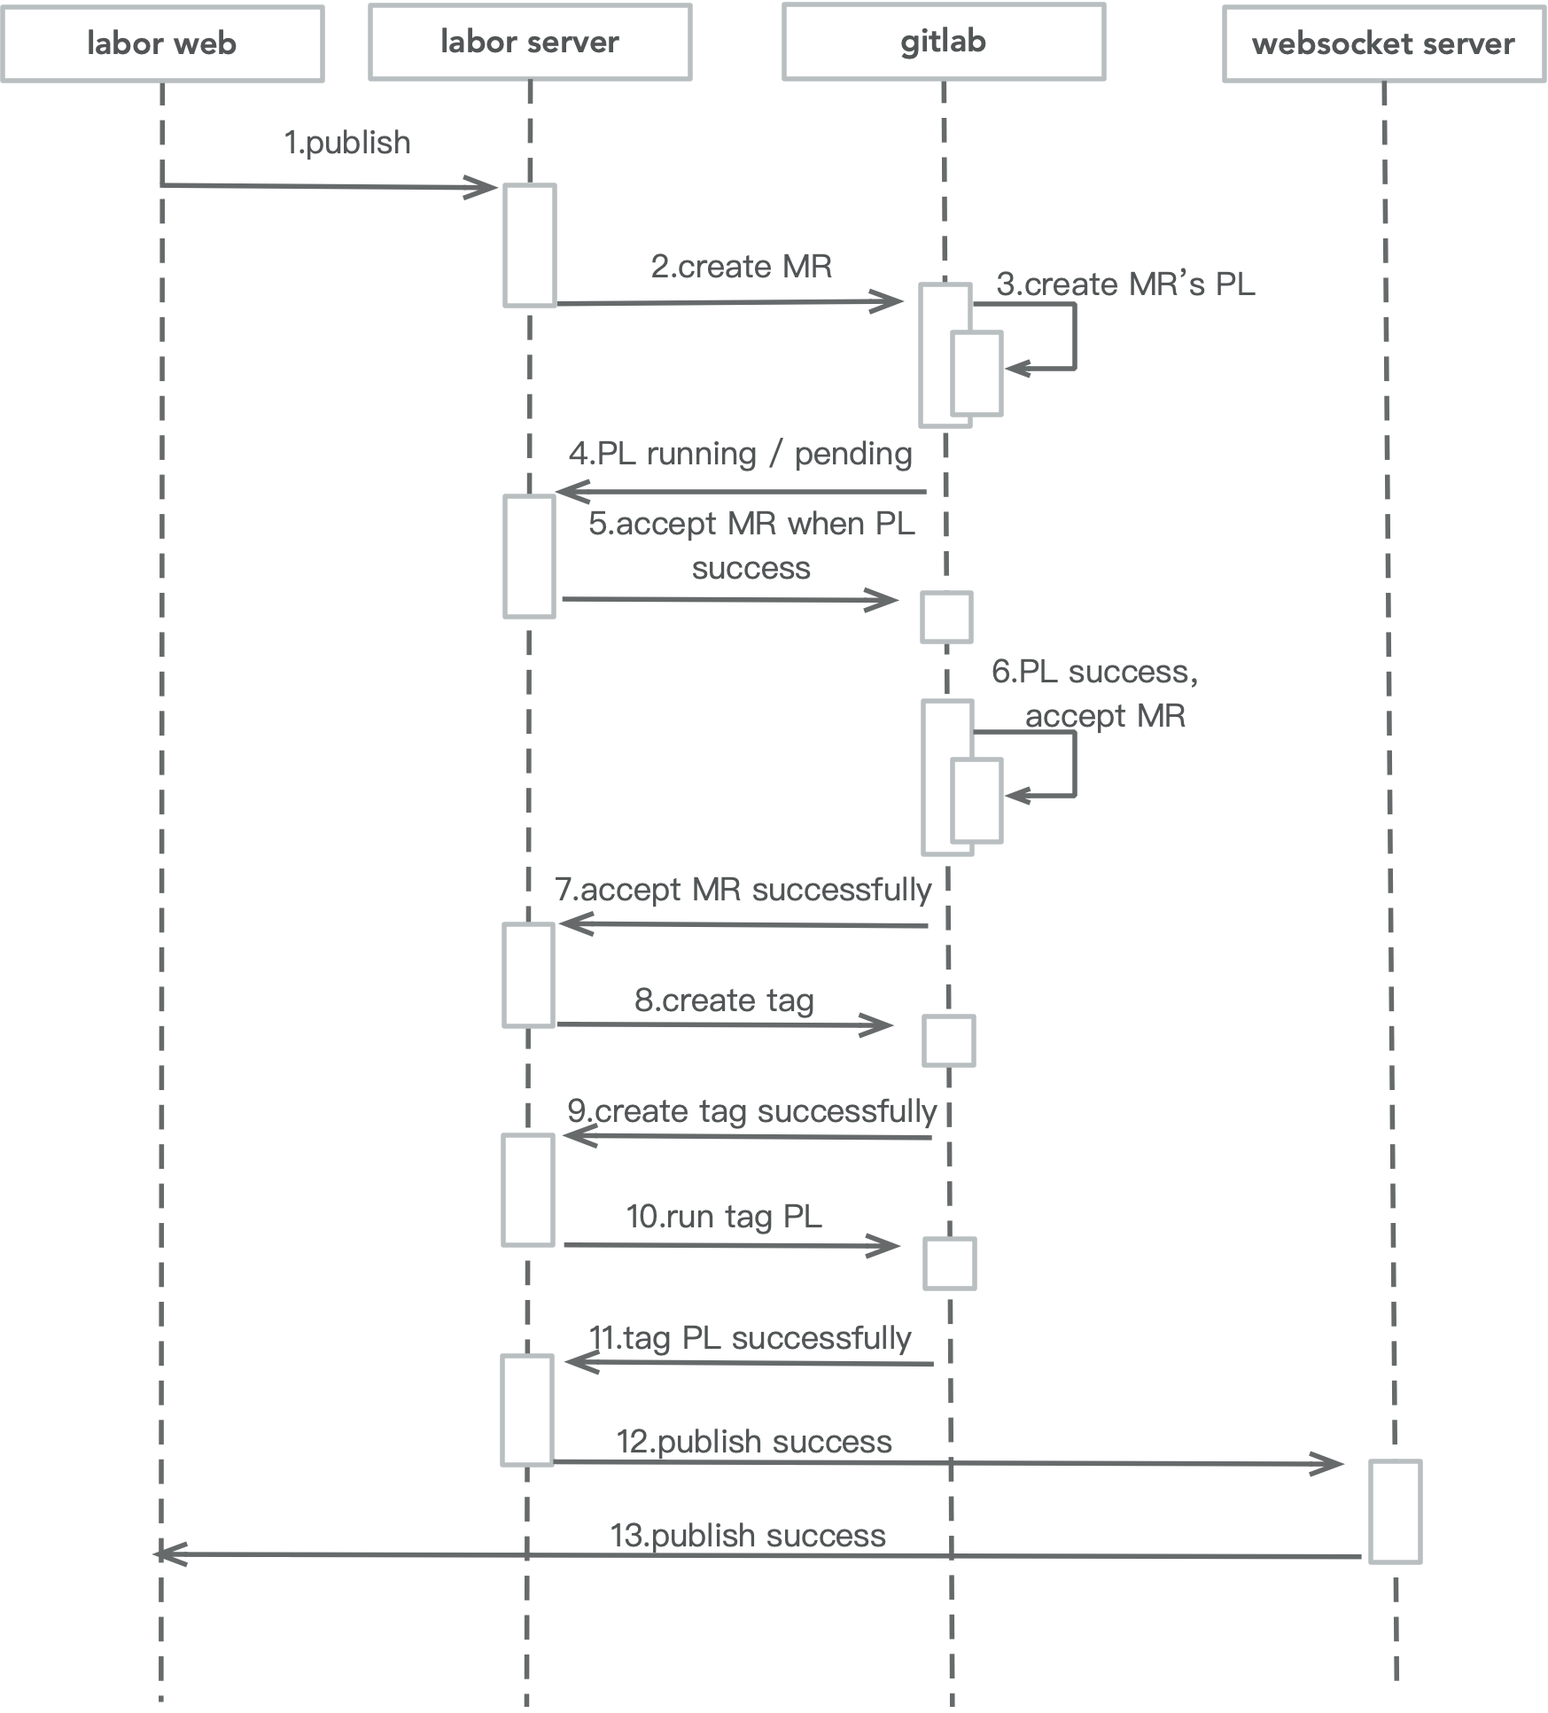
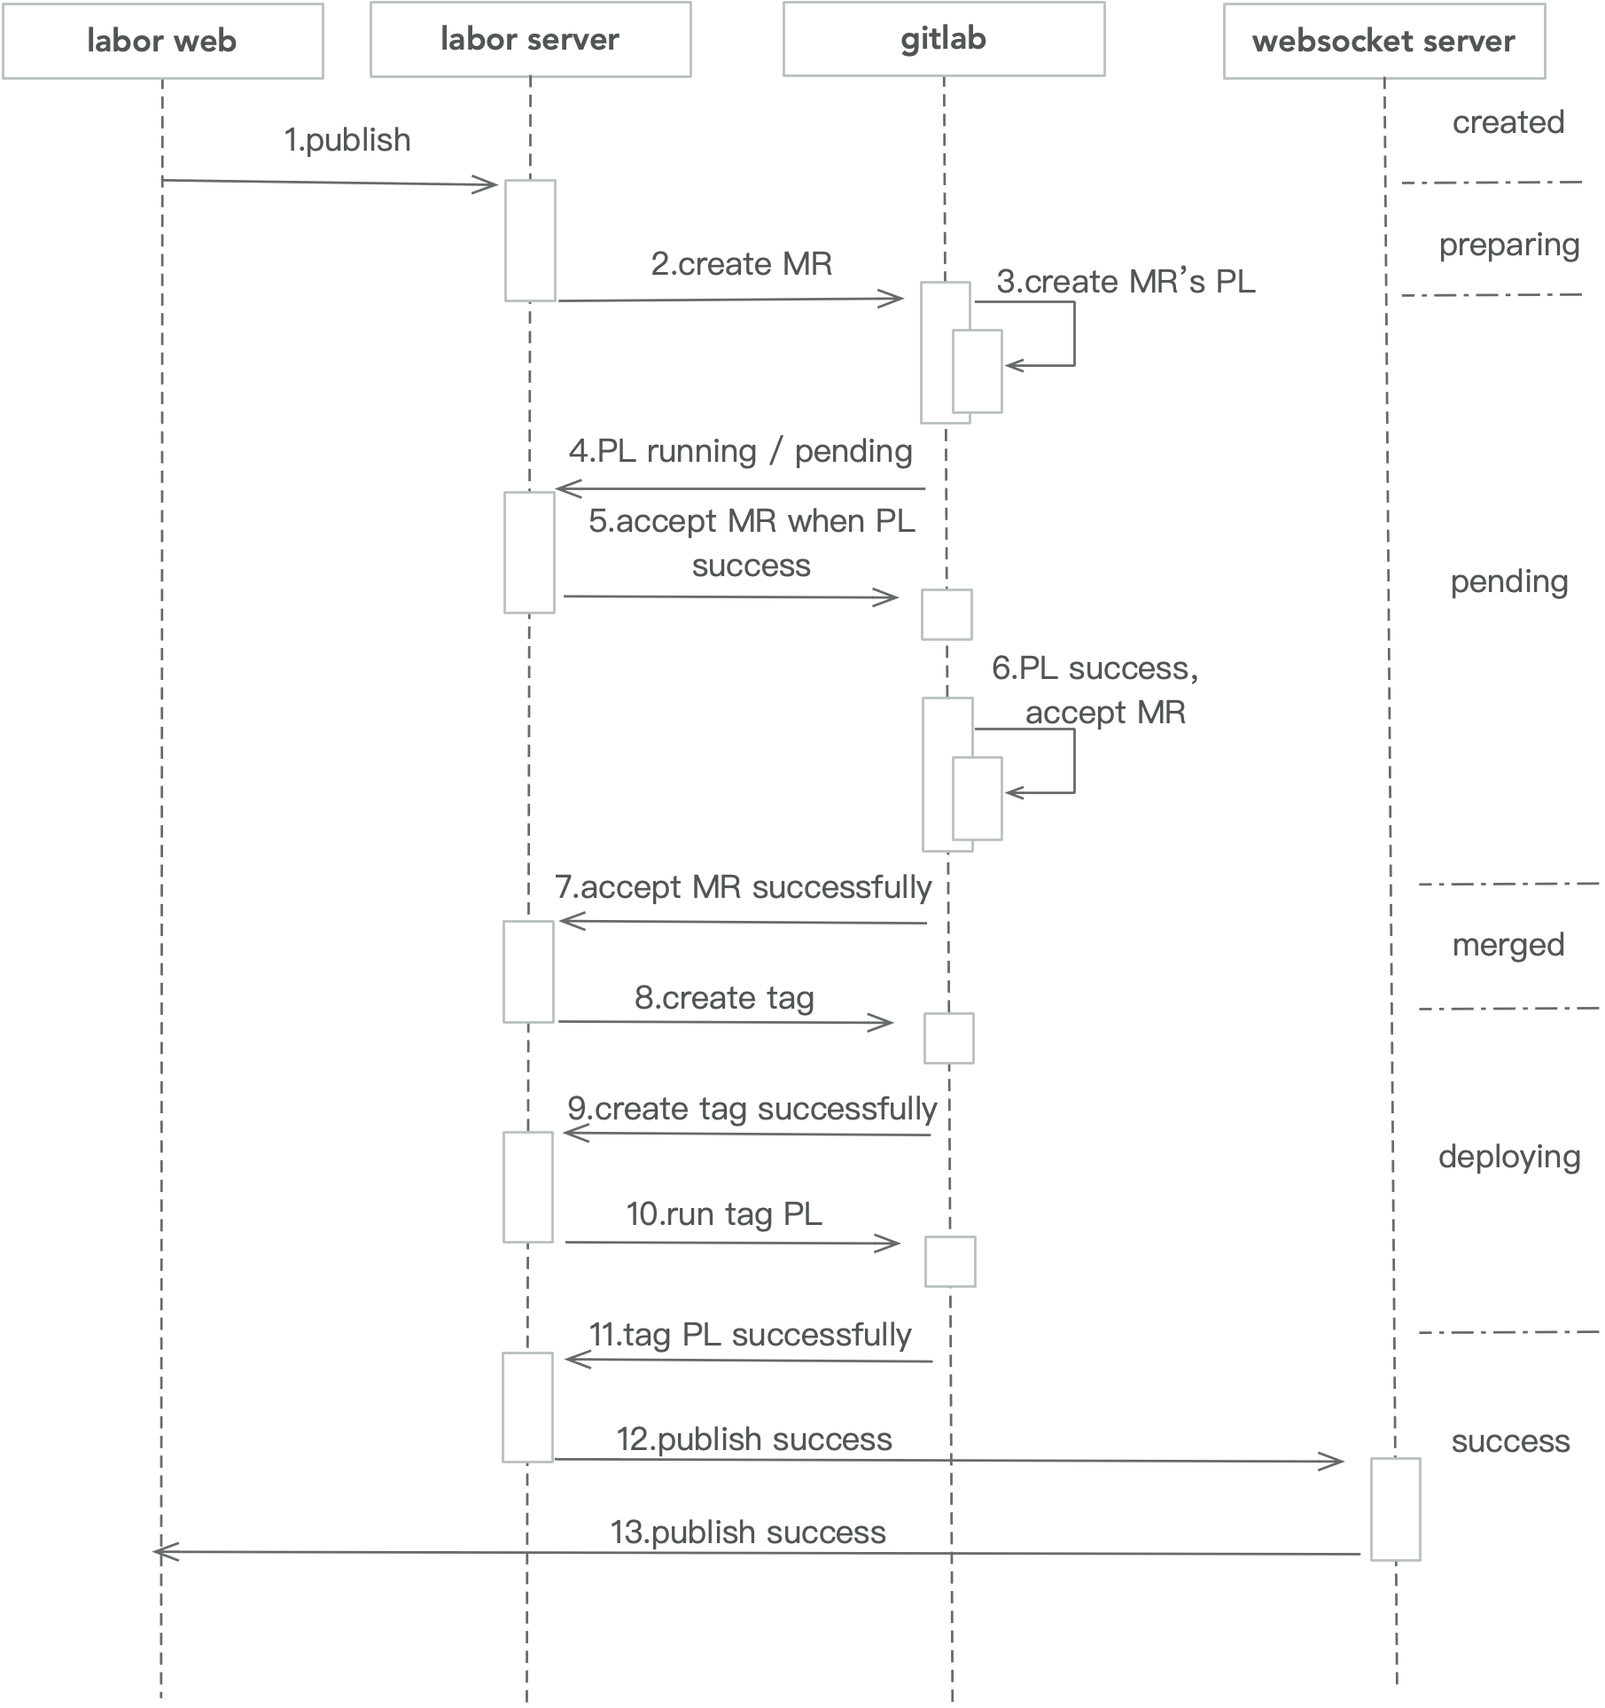
updte

diff --git a/source/_posts/CocoaPods，GitLabCI与组件自动化发布.md b/source/_posts/CocoaPods，GitLabCI与组件自动化发布.md
@@ -1,0 +1,327 @@
+---
+title: CocoaPods，GitLab CI 与组件自动化发布
+date: 2019-01-27 15:47:21
+tags: [CocoaPods,GitLab CI,组件自动化发布]
+categories: iOS
+author: 青木
+---
+
+
+
+在实施业务组件化后，大部分没有组件化工具链支撑的团队一般都会遇到组件发布效率问题，如果遇到多个特性一起上线时，发布的组件数量可能达到十几二十个，手动发布这些组件的话，费时费力，非常影响开发体验。同样的，这个问题也一直困扰着我们团队，虽然后期我们通过 CI 简化了单个组件的发布，组件负责人只需要根据 Podfile 中的版本提交相应 tag 即可触发发布动作，但是 CI 并没有解决多个关联组件发布的前后顺序问题————如果下层组件还未发布就发布上层组件，此组件的 CI 很可能会因为缺少下层组件的某些接口而执行失败。
+
+<!--more-->
+
+## 背景
+
+我们团队目前是基于 GitFlow 工作流进行日常项目的开发， 项目在进入预发阶段时，关联的组件都需要拉取 release 分支，当某次发版的所有关联项目都预发测试完毕时，此次发版的负责人（通常是其中某个项目的负责人）会通知团队内部成员对组件进行封板，然后组件的负责人会去合并 release 分支到 master & develop ，并且发布一个新版本，等所有组件都发布完成后，发版负责人再去更新主工程 Podfile。
+
+整个发版过程，组件负责人除了需要重复若干次以下操作，还需要知悉是否有下层组件还未发布：
+
+```
+>>>> 合并 release 分支 ，gitflow finish release
+    >>>> 查看组件应升级版本,更新 podspec 版本并 commit
+        >>>> 打 tag 并 push 
+            >>>> CI 执行完毕，组件发布完成，可能需要通知上层组件的负责人
+```
+
+可以看到如果需要发布多个组件，其过程还是非常繁琐的。
+
+我们再单独说下发布顺序的问题。假设当前有需要发布的组件 A、B、C、D ，其依赖关系如下：
+
+<img src="https://github.com/tripleCC/tripleCC.github.io/raw/master/images/labor-组件依赖.png" width="400">
+
+在遵守 CocoaPods 发布规则的前提下，发布先后顺序应依次为 A、B-C、D ，其中 B 和 C 组件可同时发布，D 则需要等 B、C 都发布完成后才可以发布，也就是说只有当前组件的依赖没有包含未发布组件，此组件才可发布。
+
+我们以前的发布情况常常是这样的：下层组件 A 由于 lint 不通过，导致依赖 A 的 B、C 都 lint 失败，由于我们没有限制开发者对私有源仓库的 push 权限，B、C 组件的负责人这时候可能就会选择向私有源仓库强推 podspec ，导致出现 lint 失败的连锁反应，越来越多的组件本身代码没问题，却因为下层组件而 lint 失败，只能选择强推 podspec 。
+
+遇到这种情况，除了强调发布规则，从根本上还是要减少发版操作给组件负责人带来的工作量。
+
+labor 就是为了能在一定程度上解决以上问题而创建的。在 labor 上执行发版操作时，组件负责人只需要关注 lint 的错误信息即可，剩余发布操作，包括上下层组件的发布顺序都由 labor 进行管理。
+
+## 效果
+
+还是以上诉的 A、B、C、D 组件为例，在 labor 上添加发布并分析依赖后，可以看到组件发布页：
+
+![1](/images/Snip20190214_24.png)
+
+在发布页中，使用者可以查看依赖发布的组件，也可以修改发布组件的版本，labor 会在组件发布时同步到仓库的 podspec 文件中。
+
+
+执行自动发布后，labor 会和 GitLab 进行一系列交互。以组件 A 为例，labor 会先创建目标分支的 MR ：
+
+![1](/images/Snip20190214_17.png)
+
+然后触发对应 release 分支的 pipeline ：
+
+![1](/images/Snip20190214_18.png)
+
+这里我们省去的 code review 这一步骤，如果需要的话，可以在 web 上设置入口，组件负责人设置为 review 完成后，才触发 pipeline。
+
+如果 pipeline 执行成功，那么 GitLab 会自动合并 MR，如果冲突的话，需要负责人在此 MR 下解决 ：
+
+![1](/images/Snip20190214_20.png)
+
+MR 合并成功后，组件会更新状态为发布中 ：
+
+![1](/images/Snip20190214_23.png)
+
+然后 labor 会给组件打 tag ，并且触发 tag 的 pipeline ：
+
+![1](/images/Snip20190214_22.png)
+
+在 tag 的 pipeline 执行成功后，我们就视 A 组件发布成功了，接着 labor 会同时触发 B、C MR 对应分支的 pipeline ，后续处理与组件 A 一致。受益于 GitLab 分布式的 runner ，我们可以通过 CI 同时发布多个组件。
+
+当所有组件发布完成后，labor 会根据使用者输入的组件版本，更新发版工程的 Podfile：
+
+![1](/images/Snip20190216_25.png)
+
+以上就是 labor 的主要工作步骤，可以看到，使用 labor 发版后，组件负责人只需要确保 MR 能顺利合并即可，不需要等待下层组件负责人发布完成的通知，也省去了繁琐的发布操作。
+
+## 概览
+
+labor 由如下几个服务构成 ：
+
+![labor-总览](/images/labor-总览.png)
+
+其中 web 端主要专注于发版交互与组件发布数据的展示，后端负责发版信息采集、组件发布任务调度以及和 GitLab 进行通信，websocket server 主要负责实时更新 web 中组件的发布状态。server 中很多操作都是与 GitLab 进行交互，耗时较多，所以 server 中的大部分 service 都是交给 sidekiq（后台任务处理系统）执行的。
+
+接下来我会根据自身实践经历，说下主要流程的实现方式。
+
+## 发布类型
+
+依据发布性质，labor 把发布分为两种：
+
+- 主发布 (main deploy)
+- 子发布 (pod deploy)
+
+这里主发布的主体是发版工程，子发布的主体是组件。其中主发布主要负责发版工程信息的获取和更新，比如依赖的分析、最后目标分支 Podfile 的更新等。 主发布经过分析后，会创建若干子发布，子发布则负责组件发布的所有流程，包括组件 MR 的创建，组件 tag 的创建，发布 CI 的触发等。
+
+主发布和子发布涉及的所有状态如下：
+
+```js
+created:      '待分析',
+analyzing:    '分析中',
+preparing:    '准备中',
+pending:      '等待中',
+waiting:      '待发布',
+skipped:      '已忽略',
+merged:       '已合并',
+deploying:    '发布中',
+success:      '发布成功',
+failed:       '发布失败',
+canceled:     '已取消',
+```
+
+我们使用 [state_machines-activerecord](https://github.com/state-machines/state_machines-activerecord) 以状态机的形式对发布状态进行管理，状态发生变更之后，都会通过 websocket 同步到 web 端。
+
+## 分析依赖
+
+分析目标工程的组件依赖是发版的第一步，对应主发布的 analyzing 状态，下面是 labor 分析步骤的序列图：
+
+![labor-分析依赖](/images/labor-分析依赖.png)
+
+首先，web 向 server 端发起分析依赖请求，server 接收到请求后，使用 [gitlab](https://github.com/NARKOZ/gitlab.git)  向 GitLab 请求 Podfile 文件内容。由于 Podfile 可能在仓库的根目录或者 Example 文件夹下，这里我们使用了 5 层深度的递归查询来获取文件路径。
+
+获取到 Podfile 路径后，再根据文件内容创建 Podfile 对象：
+
+```ruby
+# Labor::RemoteFile::Base
+def file_contents
+  @file_contents ||= gitlab.file_contents(@project_id, @path, @ref)
+rescue Gitlab::Error::NotFound => error
+  # self.class.name.demodulize
+  # [2..-1]
+  raise Labor::Error::NotFound.new("Can't find #{self.class.name.split('::').drop(2).join('')} with error #{error.message}")
+end
+
+# Labor::RemoteFile::Podfile
+def podfile
+  @podfile ||= begin
+    content = file_contents
+    podfile = Pod::Podfile.from_ruby(Pathname.new(path), content)
+    podfile
+  end
+end
+```
+生成 Podfile 对象后就可以分析发版信息了。我们会先过滤出需要发版的依赖：
+
+```ruby
+podfile.dependencies.select { |dependency| dependency.external? && dependency.external_source[:tag].nil?}
+```
+
+然后通过同样的方式循环获取这些依赖的 podspec 文件，并且构建 Specification 对象 ：
+
+```ruby
+untagged_specs = Parallel.map(untagged_git_dependencies, in_threads: 5) do |dep|  
+  git = dep.external_source[:git]
+  ref = dep.external_source[:branch]
+  component_project = gitlab.project(git)
+  remote_file = Labor::RemoteFile::Specification.new(component_project.id, ref)
+  remote_file.specification
+end
+```
+
+这里可以利用多线程加快执行效率，不过线程数不要过多，不然容易造成 GitLab 返回数据失败。
+
+获取到所有需要发布的 spec 后，我们会结合组件与其依赖、间接依赖创建发布结构，然后保存至数据库。同样以 A、B、C、D 组件为例，它们的 podspec 依赖如下：
+
+```
+# podspec
+A
+
+B
+> A
+
+C
+> A
+
+D
+> B
+> C
+```
+
+最终生成的发布结构如下：
+
+```
+# 发布结构
+A
+
+B
+> A
+
+C
+> A
+
+D
+> A
+> B
+> C
+```
+
+当 A 发布完成后，发布结构转变为 ：
+
+```
+# 发布结构
+A
+
+B
+
+C
+
+D
+> B
+> C
+```
+
+B、C 组件会在需要发布的依赖清空之后，继续执行组件发布的后续操作 。
+
+## 发布组件
+
+组件的发布是整个服务的核心功能，顺利发布单个组件时的序列图如下：
+
+![labor-发布组件](/images/labor-发布组件.png)
+
+上图中省略了部分和 websocket server 相关的逻辑，实际上其右边的状态发生变更时，都会进行 12、13 步骤的消息流动。
+
+如果是自动发布所有组件，而不是发布单个组件，labor 会对主发布分析出的所有组件执行发布操作，这样相关负责人就可以选择提前去 review MR 上需要合并的代码，而不是等依赖的组件发布完成。
+
+对于已知 lint 不通过，短时间无法解决错误的组件，labor 提供了手动标志组件发布成功的功能，使用者需要手动发布组件，再设置发布成功。添加这个功能主要是考虑到发版工程会接入其他业务线的组件，而我们并不想让这些组件影响发版进程。
+
+组件发布过程中，根据处理对象的不同，又可分为以下两个阶段，
+
+- 准备阶段 （preparing ～ pending）
+- 正式发布阶段 （merged ～ success）
+
+下面会简略地进行说明。
+
+### 准备阶段
+
+首先，server 会给还未配置过的组件工程添加 webhook ，GitLab 很多任务都是放到 sidekiq 的，要想获取任务的执行信息，只能通过 webhook 让 GitLab 主动发送，所以这一步是组件能自动发布的重要前提。
+
+接着，server 会校验创建 MR 的必要条件：
+
+- 组件仓库必须要有 CI 配置文件，并且文件中包含发布 stage
+- 组件仓库的 default 分支必须为 master
+
+如果满足以上条件，我们会继续处理目标组件的 podspec 版本。
+
+labor 在分析依赖时，默认会使用 release 分支名中或者 podspec 中较高的版本号作为发布版本，如果实际发布时，组件发布版本比仓库中的 podspec 高，就需要更新 GitLab 仓库中 podspec 的 version 字段。
+
+以下是我们更新 podspec 版本的代码：
+
+```ruby
+def update_podspec_content(podspec_content, version)
+  require_variable_prefix = true
+  version_var_name = 'version'
+  variable_prefix = require_variable_prefix ? /\w\./ : //
+  version_regex = /^(?<begin>[^#]*#{variable_prefix}#{version_var_name}\s*=\s*['"])(?<value>(?<major>[0-9]+)(\.(?<minor>[0-9]+))?(\.(?<patch>[0-9]+))?(?<appendix>(\.[0-9]+)*)?(-(?<prerelease>(.+)))?)(?<end>['"])/i
+
+  version_match = version_regex.match(podspec_content)
+  updated_podspec_content = podspec_content.gsub(version_regex, "#{version_match[:begin]}#{version}#{version_match[:end]}")
+  updated_podspec_content
+end
+```
+
+更新字符串后，同步至 GitLab：
+
+```ruby
+gitlab.edit_file(@project_id, @path, @ref, content, "更正 podspec 版本 #{version}".ci_skip)
+```
+
+这里我们的 commit 信息以 [ci skip] 作为前缀，以减少触发不必要的 pipeline。
+
+最后，我们会校验目标分支是否为 master 或者已经合并到 master ，如果是的话，server 会直接标记此发布为 merged ，等待正式发布，否则 server 会给组件仓库创建 MR ，发布进入 pending 状态，等依赖的组件都发布完成后，如果此 MR 还未合并，server 会重新触发 MR 关联的 pipeline ，pipeline 运行成功，目标分支合入 master 后，再执行正式发布。
+
+
+### 正式发布阶段
+
+由于 tag 触发的 pipeline 包含二进制打包、源码及二进制版本发布的 stage ，所以在这个阶段我们只需要管理 tag 及关联的 pipeline 就可以实现发布功能了。
+
+这时候如果 tag 版本已经存在，GitLab 会返回创建失败，虽然 GitLab 提供了删除 tag 的功能，但还是不建议这么做的，我们会在 web 端提示发布失败，并且注明 tag 已存在，让组件负责人修改版本后重试发布此组件。
+
+GitLab 创建 tag 操作是异步的，所以我们会在 webhook 中监听 tag 创建结果，创建成功之后，就可以处理 pipeline 了。上文提到过 以 [ci skip] 开头 commit 不会触发 pipeline ，所以我们需要在这里做下判断，如果已经有 pipeline ，那么只更新对应数据库条目，否则就需要创建新的 pipeline 。
+
+## 更新依赖
+
+在所有组件发布完成后，我们会把变更的组件版本，同步到发版工程对应分支的 Podfile 中。受限于目前的工作流程和有限的工具链，我们在开发时，还是避免不了手动修改 Podfile ，所以我们依旧使用 ruby 来编写 Podfile ，没有使用 YAML 或者 JSON 格式 （pod ipc podfile/podfile-json 可查看）。
+
+过于灵活的编写方式，使得对其执行正则匹配需要以先推行编写规范为基础，所以这里我决定不使用正则，而是让开发者提供 Podfile 模版，比如正常的 Podfile 为：
+
+```ruby
+# 一些 ruby 语法的配置
+target 'E' do
+  pod 'A', git: 'xxxx', branch: 'release/0.1.0'
+  pod 'J'
+end
+# 一些 ruby 语法的配置
+```
+
+那么开发者可以在同级目录下，添加 PodfileTemplate :
+
+```ruby
+# 一些 ruby 语法的配置
+target 'E' do
+:TRIPLECCREPLACEME
+end
+# 一些 ruby 语法的配置
+```
+
+labor 会先获取原 Podfile，解析其依赖之后，再根据数据库中的组件及其发布版本号，更新这些依赖，然后将 PodfileTemplate 文件的 `:TRIPLECCREPLACEME` 替换成更新后的依赖，以生成新的 Podfile ：
+
+```ruby
+# 一些 ruby 语法的配置
+target 'E' do
+  pod 'A', '= 0.1.0'
+  pod 'J'
+end
+# 一些 ruby 语法的配置
+```
+
+当然，在工具链成熟的情况下，使用 JSON 或者 YAML 格式编写的 Podfile ，更易于自动化处理，所以个人推荐前期最好不要在 Podfile 中添加过多 ruby 自定义代码，如果需要的话，可以以 cocoapods 插件的形式集成。
+
+## 总结
+
+由于 labor 只是个人在开发维护，所以制定流程和细节处理上可能不是非常合理，但就目前成果来看，labor 还是初步实现了发版时的组件自动化发布。文章中更多的是展示了正常发布流程，实际上整个发布过程中，还是要处理挺多异常流程的。
+
+不过在发版本时才统一对需要发布的组件进行验证，容易出现解决组件 lint 错误实践过长影响发版问题，所以可能还是需要添加组件准入规则，将这部分验证往前移，比如约束主工程的分支权限，在预发提测前让开发者预先打 rc 版本，确保 rc 版本验证成功之后，再以 web 操作的方式接入主工程，预发阶段修复组件 bug 后，重新走接入流程，这样应该就能保证发版时，需要发布组件的正确性了（关于 rc 版本的 lint ，可能还需要变更下 CocoaPods 查找版本的默认方式，毕竟 Semantic Versioning 优先采用正式版本）。

diff --git a/source/_posts/基于CocoaPods的组件二进制化实践.md b/source/_posts/基于CocoaPods的组件二进制化实践.md
@@ -775,7 +775,7 @@ report_to_director:
 
 推送 tag 后，如果一切顺利，可以看到 pipeline 执行结果如下：
 
-![pipeline 结果](/images/Snip20190122_1.png)
+![pipeline 结果](https://github.com/tripleCC/tripleCC.github.io/raw/master/images/Snip20190122_1.png)
 
 其中的 package 、 publish 这两个 stage 囊括了二进制化资源制作的主要工作，组件维护者依然可以像二进制化前一样，关注源码版本的发布流程即可。
 
